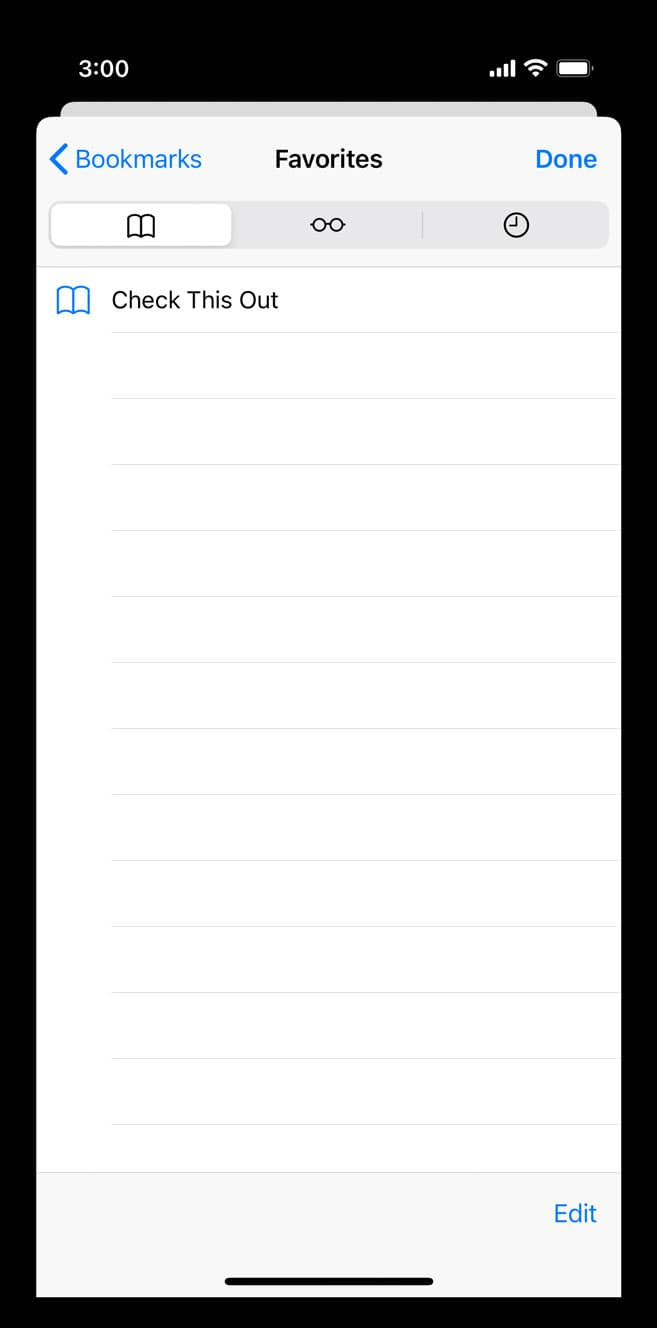
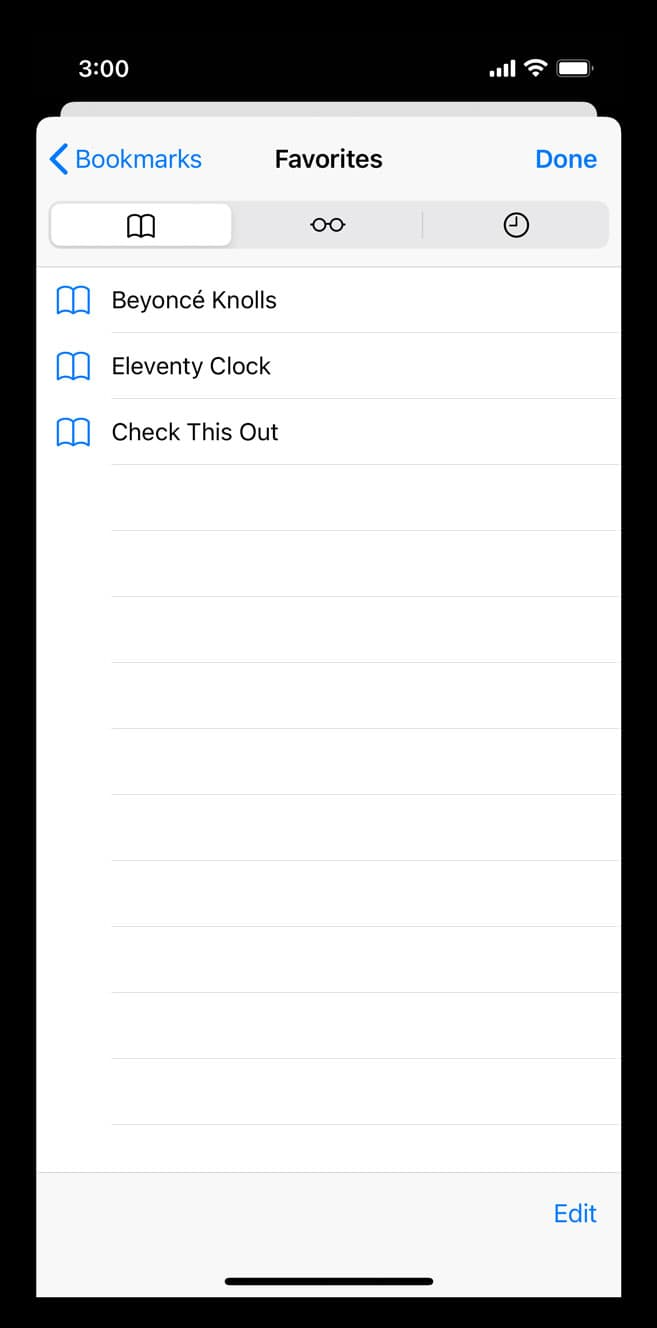
Update Libby bookmarks contents

Changed region(s): [[0.1826, 0.2161, 0.4262, 0.2779], [0.1826, 0.3087, 0.4262, 0.3396], [0.0609, 0.247, 0.1522, 0.3396]]

diff --git a/src/_data/components/Phone/Libby.js b/src/_data/components/Phone/Libby.js
@@ -20,6 +20,8 @@ let frameWrangler = new FrameWrangler({
 	},
 });
 
+frameWrangler.pause( 1000 );
+
 // Select text
 frameWrangler.movePointer( -0.04, 0.38, 1000 );
 frameWrangler.tapDown( 750 );
@@ -37,7 +39,7 @@ frameWrangler.clearTopScreenBackground();
 // Launch Libby
 frameWrangler.setTopScreenTranslateX( "100%" );
 frameWrangler.setTopScreenBackground( "index/libby-04" );
-frameWrangler.movePointer( 0.135, 0.16, 250 );
+frameWrangler.movePointer( 0.135, 0.26, 250 );
 frameWrangler.showTopScreen();
 frameWrangler.tap();
 frameWrangler.setBottomScreenTranslateX( "-100%" );
